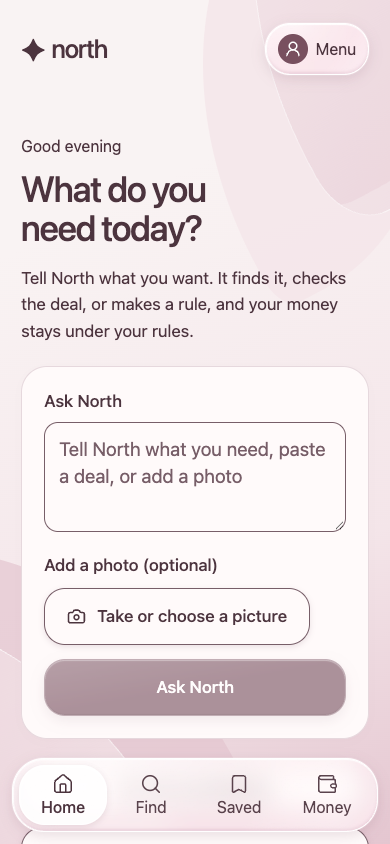
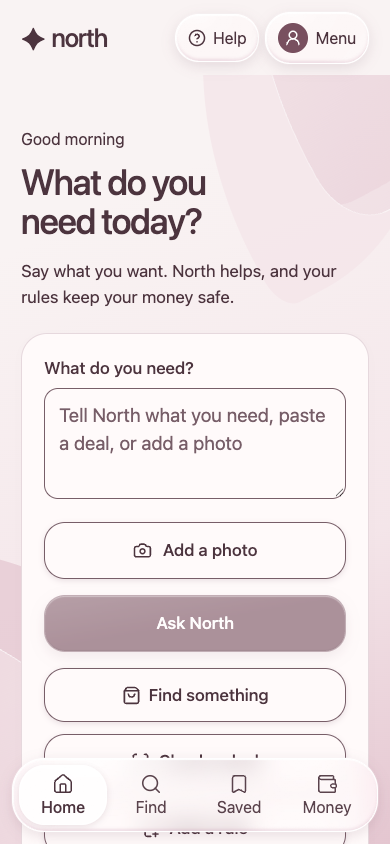
Dark mode for all five themes (Light / Dark / Match my device), contrast checks for dark, dark screenshots

diff --git a/src/app/north-theme.css b/src/app/north-theme.css
@@ -2,36 +2,40 @@
    and source/laptop.css), unchanged, with ONE addition: --n-success-bg, the fixed "good" background. Status colours
    (success, wait, stop) are the same in every theme: a theme never turns a stopped payment into a positive colour. */
 
-.north-app {
+/* The theme and the mode live on <html> (data-theme, data-mode), so a tiny script in <head> can set them before the first paint and
+   the page never flashes the wrong one. Everything below inherits the custom properties. */
+html {
   --n-success-bg: #e3efe6;
   --n-focus: #1f2a2e;
+  --n-halo: #ffffffd0;
+  background: var(--n-paper, #f9f3f3);
 }
 
-.north-app[data-theme="tide"] {
+html[data-theme="tide"] {
   --n-paper: #f0f7f8; --n-content: #fcfdfd; --n-ink: #244249; --n-muted: #536b71; --n-accent: #2b5c66; --n-action: #fff;
   --n-line: #d3e1e3; --n-haze: #b3d6de; --n-light: #e1f0f2; --n-deep: #7daebd; --n-milk: #ffffffe6; --n-glass: #ffffff59;
   --n-glass-light: #fffffffa; --n-glass-shade: #173b321f; --n-lens: #79ad9d40; --n-quiet: #e6efea; --n-success: #365c43;
   --n-edge: #8eaba2; --n-skin-shadow: #31483c1f; --n-state: #855114; --n-state-bg: #fff3dc; --n-stop: #8a403b; --n-stop-bg: #faeae6;
 }
-.north-app[data-theme="dune"] {
+html[data-theme="dune"] {
   --n-paper: #f7f2eb; --n-content: #fdfbf7; --n-ink: #48352d; --n-muted: #756054; --n-accent: #765145; --n-action: #fff;
   --n-line: #e3d7c9; --n-haze: #dfc1a6; --n-light: #f2e6d3; --n-deep: #c19372; --n-milk: #ffffffe6; --n-glass: #ffffff59;
   --n-glass-light: #fffffffa; --n-glass-shade: #6e443025; --n-lens: #b8825140; --n-quiet: #eee1d2; --n-success: #365c43;
   --n-edge: #c6ad95; --n-skin-shadow: #6d47301e; --n-state: #855114; --n-state-bg: #fff3dc; --n-stop: #8a403b; --n-stop-bg: #faeae6;
 }
-.north-app[data-theme="grove"] {
+html[data-theme="grove"] {
   --n-paper: #f3f5ed; --n-content: #fcfdf7; --n-ink: #35432e; --n-muted: #626e56; --n-accent: #4d6340; --n-action: #fff;
   --n-line: #dbe1cb; --n-haze: #c1ce9e; --n-light: #e8edda; --n-deep: #96ab75; --n-milk: #ffffffe6; --n-glass: #ffffff59;
   --n-glass-light: #fffffffa; --n-glass-shade: #3c4c2422; --n-lens: #9aaf6a40; --n-quiet: #e5ead8; --n-success: #365c43;
   --n-edge: #acbb91; --n-skin-shadow: #45552b1f; --n-state: #855114; --n-state-bg: #fff3dc; --n-stop: #8a403b; --n-stop-bg: #faeae6;
 }
-.north-app[data-theme="opal"] {
+html[data-theme="opal"] {
   --n-paper: #f5f5f2; --n-content: #fdfdfb; --n-ink: #292a2b; --n-muted: #626365; --n-accent: #303335; --n-action: #fff;
   --n-line: #ddded8; --n-haze: #d5dcd9; --n-light: #eef0eb; --n-deep: #a9b7b1; --n-milk: #ffffffe6; --n-glass: #ffffff59;
   --n-glass-light: #fffffffa; --n-glass-shade: #262d2c1c; --n-lens: #a4b2ac4a; --n-quiet: #e9ede8; --n-success: #365c43;
   --n-edge: #b5beb7; --n-skin-shadow: #373b351f; --n-state: #855114; --n-state-bg: #fff3dc; --n-stop: #8a403b; --n-stop-bg: #faeae6;
 }
-.north-app[data-theme="bloom"] {
+html[data-theme="bloom"] {
   --n-paper: #f9f3f3; --n-content: #fffafa; --n-ink: #4c343e; --n-muted: #775e68; --n-accent: #78505f; --n-action: #fff;
   --n-line: #e6d8dd; --n-haze: #e4c6d0; --n-light: #f4e5e9; --n-deep: #c29aa9; --n-milk: #ffffffe6; --n-glass: #ffffff59;
   --n-glass-light: #fffffffa; --n-glass-shade: #63364c22; --n-lens: #ba819c40; --n-quiet: #f0e2e7; --n-success: #365c43;
@@ -54,47 +58,97 @@
   border-radius: 50%; transform: rotate(-15deg); opacity: .62;
   box-shadow: 0 0 0 2px #ffffffb0, 0 0 0 26px var(--n-light), 0 0 0 28px #ffffffd0, 0 0 0 64px var(--n-haze);
 }
-.north-app[data-theme="dune"] .ng-landscape::before { border-radius: 75% 40% 30% 60%; transform: rotate(15deg); }
-.north-app[data-theme="grove"] .ng-landscape::after { border-radius: 60% 25% 65% 30%; transform: rotate(-35deg); }
+html[data-theme="dune"] .ng-landscape::before { border-radius: 75% 40% 30% 60%; transform: rotate(15deg); }
+html[data-theme="grove"] .ng-landscape::after { border-radius: 60% 25% 65% 30%; transform: rotate(-35deg); }
 
 /* Element-specific geometry: waves (Tide), petals (Bloom) and faceted planes (Opal). These come last on purpose: they replace the shapes above. */
-.north-app[data-theme="tide"] .ng-landscape::before {
+html[data-theme="tide"] .ng-landscape::before {
   width: 1150px; height: 390px; left: auto; right: -170px; top: -352px; bottom: auto; border: 0; border-bottom: 47px solid var(--n-haze);
   border-radius: 0 0 52% 48%; background: transparent; box-shadow: 0 20px 0 -8px var(--n-light), 0 22px 0 -8px #ffffffb0;
   transform: rotate(-10deg); opacity: .68;
 }
-.north-app[data-theme="tide"] .ng-landscape::after {
+html[data-theme="tide"] .ng-landscape::after {
   width: 1700px; height: 420px; left: -320px; right: auto; bottom: -273px; top: auto; border: 0; border-top: 2px solid #ffffffc0;
   border-radius: 48% 62% 0 0 / 75% 80% 0 0; background: linear-gradient(180deg, var(--n-haze), var(--n-light));
   box-shadow: 0 -21px 0 -5px var(--n-light), 0 -23px 0 -5px #ffffffa0, 0 -44px 0 -10px var(--n-deep); transform: rotate(-9deg); opacity: .72;
 }
-.north-app[data-theme="bloom"] .ng-landscape::before {
+html[data-theme="bloom"] .ng-landscape::before {
   width: 540px; height: 650px; left: auto; right: -65px; top: -420px; bottom: auto; border: 1px solid #ffffffa0; border-radius: 82% 12% 78% 14%;
   background: linear-gradient(145deg, var(--n-light), var(--n-haze)); box-shadow: -120px 65px 0 -26px var(--n-light), inset -24px -24px 0 #ffffff40;
   transform: rotate(-28deg); opacity: .76;
 }
-.north-app[data-theme="bloom"] .ng-landscape::after {
+html[data-theme="bloom"] .ng-landscape::after {
   width: 670px; height: 650px; left: -390px; right: auto; bottom: -290px; top: auto; border: 1px solid #ffffffb0; border-radius: 12% 85% 17% 82%;
   background: linear-gradient(120deg, var(--n-haze), var(--n-light)); box-shadow: 120px -48px 0 -37px var(--n-haze), inset 26px 23px 0 #ffffff35;
   transform: rotate(-22deg); opacity: .72;
 }
-.north-app[data-theme="opal"] .ng-landscape::before {
+html[data-theme="opal"] .ng-landscape::before {
   width: 650px; height: 610px; left: auto; right: -100px; top: -345px; bottom: auto; border: 0; border-radius: 0;
   clip-path: polygon(20% 0, 100% 0, 79% 100%, 0 79%);
   background: linear-gradient(118deg, var(--n-light) 0%, #ffffffd0 38%, var(--n-haze) 39%, var(--n-light) 67%, #ffffff90 68%);
   box-shadow: none; transform: rotate(17deg); opacity: .78;
 }
-.north-app[data-theme="opal"] .ng-landscape::after {
+html[data-theme="opal"] .ng-landscape::after {
   width: 750px; height: 620px; left: -220px; right: auto; bottom: -345px; top: auto; border: 0; border-radius: 0;
   clip-path: polygon(0 17%, 70% 0, 100% 80%, 20% 100%);
   background: linear-gradient(130deg, var(--n-haze) 0%, var(--n-light) 44%, #ffffffe0 45%, #ffffff80 47%, var(--n-deep) 48%, var(--n-light) 100%);
   box-shadow: none; transform: rotate(-17deg); opacity: .58;
 }
 @media (max-width: 650px) {
-  .north-app[data-theme="tide"] .ng-landscape::before { width: 700px; height: 240px; top: -200px; right: -250px; }
-  .north-app[data-theme="tide"] .ng-landscape::after { width: 950px; height: 340px; left: -290px; bottom: -190px; }
-  .north-app[data-theme="bloom"] .ng-landscape::before { width: 340px; height: 450px; right: -170px; top: -270px; }
-  .north-app[data-theme="bloom"] .ng-landscape::after { width: 400px; height: 500px; left: -250px; bottom: -210px; }
-  .north-app[data-theme="opal"] .ng-landscape::before { width: 430px; height: 530px; right: -210px; top: -320px; }
-  .north-app[data-theme="opal"] .ng-landscape::after { width: 490px; height: 490px; left: -210px; bottom: -250px; }
+  html[data-theme="tide"] .ng-landscape::before { width: 700px; height: 240px; top: -200px; right: -250px; }
+  html[data-theme="tide"] .ng-landscape::after { width: 950px; height: 340px; left: -290px; bottom: -190px; }
+  html[data-theme="bloom"] .ng-landscape::before { width: 340px; height: 450px; right: -170px; top: -270px; }
+  html[data-theme="bloom"] .ng-landscape::after { width: 400px; height: 500px; left: -250px; bottom: -210px; }
+  html[data-theme="opal"] .ng-landscape::before { width: 430px; height: 530px; right: -210px; top: -320px; }
+  html[data-theme="opal"] .ng-landscape::after { width: 490px; height: 490px; left: -210px; bottom: -250px; }
 }
+
+/* ---- Dark mode ---- */
+/* Each theme keeps its hue family and its background geometry (the shapes above are unchanged; they just sit on a dark canvas at lower
+   strength). In dark, --n-accent is a LIGHT tint and --n-action (the text on a button) is dark, so one accent works both as a button
+   fill and as link/border text. Status colours keep their meaning (green = fine, amber = wait, red = stopped) and are retuned for dark:
+   a refusal is always red with a hand icon and the word "Stopped", never green or calm. Every pair is checked by scripts/contrast-tokens.mjs. */
+html[data-mode="dark"] {
+  --n-success: #7ccd9c; --n-success-bg: #16301e;
+  --n-state: #efbf62; --n-state-bg: #3a3016;
+  --n-stop: #f59a92; --n-stop-bg: #45201f;
+  --n-focus: #e6f0f2; --n-halo: #000000b8;
+  --n-glass: #ffffff14; --n-glass-light: #ffffff30; --n-glass-shade: #00000066; --n-skin-shadow: #0000005c;
+  color-scheme: dark;
+}
+html[data-mode="dark"][data-theme="tide"] {
+  --n-paper: #0f1a1f; --n-content: #172730; --n-ink: #e2f1f4; --n-muted: #9bbcc5; --n-accent: #7fc3d1; --n-action: #0b1519;
+  --n-line: #2a434d; --n-haze: #1c3541; --n-light: #13262e; --n-deep: #2c5b6b; --n-milk: #172730e6; --n-lens: #7fc3d124;
+  --n-quiet: #1d323b; --n-edge: #4a6c78;
+}
+html[data-mode="dark"][data-theme="dune"] {
+  --n-paper: #17120d; --n-content: #221a13; --n-ink: #f3e8dc; --n-muted: #bba68f; --n-accent: #d9a07c; --n-action: #1c120b;
+  --n-line: #3b2d21; --n-haze: #2b2016; --n-light: #1d1610; --n-deep: #6a4a35; --n-milk: #221a13e6; --n-lens: #d9a07c24;
+  --n-quiet: #2a2018; --n-edge: #5a4533;
+}
+html[data-mode="dark"][data-theme="grove"] {
+  --n-paper: #10170e; --n-content: #182214; --n-ink: #e6eedd; --n-muted: #a2b591; --n-accent: #a5cf86; --n-action: #0f1a0b;
+  --n-line: #2b3b22; --n-haze: #1e2c18; --n-light: #152012; --n-deep: #476338; --n-milk: #182214e6; --n-lens: #a5cf8624;
+  --n-quiet: #1f2c1a; --n-edge: #4a6539;
+}
+html[data-mode="dark"][data-theme="opal"] {
+  --n-paper: #121314; --n-content: #1b1c1e; --n-ink: #e9ebea; --n-muted: #a3a7a9; --n-accent: #b9c7c2; --n-action: #121415;
+  --n-line: #2d3030; --n-haze: #232625; --n-light: #181a1a; --n-deep: #4c5755; --n-milk: #1b1c1ee6; --n-lens: #b9c7c224;
+  --n-quiet: #232526; --n-edge: #4a504f;
+}
+html[data-mode="dark"][data-theme="bloom"] {
+  --n-paper: #181114; --n-content: #221a1e; --n-ink: #f4e6ea; --n-muted: #b99aa6; --n-accent: #e0a3b6; --n-action: #1f1015;
+  --n-line: #3a2b33; --n-haze: #35242d; --n-light: #1d151a; --n-deep: #85586a; --n-milk: #221a1ee6; --n-lens: #e0a3b624;
+  --n-quiet: #2a1f25; --n-edge: #5a4350;
+}
+/* the background shapes stay (waves, petals, facets, contours), quieter on a dark page */
+html[data-mode="dark"] .ng-landscape { opacity: .64; }
+@media (max-width: 650px) { html[data-mode="dark"] .ng-landscape { opacity: .52; } }
+/* glass: a softer sheen, so it reads as dark smoked glass and not as a white patch */
+html[data-mode="dark"] .ng-glass::before { opacity: .22; }
+html[data-mode="dark"] .ng-glass::after { opacity: 0; }
+html[data-mode="dark"] .ng-nav-selector { background: #ffffff1f; border-color: #ffffff30; box-shadow: inset 0 1px 2px #ffffff12, 0 2px 7px var(--n-glass-shade); }
+html[data-mode="dark"] .ng-sheet-dimmer { background: #00000066; }
+html[data-mode="dark"] .n-btn-primary::before { background: linear-gradient(170deg, #ffffff18, transparent 50%); }
+html[data-mode="dark"] .n-btn-primary { border-color: #ffffff26; box-shadow: inset 0 1px 1px #ffffff40, inset 0 -1px 1px #00000040, 0 5px 13px var(--n-glass-shade); }
+html[data-mode="dark"] .north-app.ng-solid .ng-nav-selector { background: var(--n-quiet); border-color: var(--n-edge); box-shadow: none; }

diff --git a/src/components/shell/appearance.tsx b/src/components/shell/appearance.tsx
@@ -2,7 +2,7 @@
 // Appearance: the colour theme, reduced motion, solid surfaces and the "Behind the scenes" panel. These are display choices only:
 // they live in this browser's local storage, are independent of one another, and never touch a rule, a payment or a permission.
 // Nothing secret is ever stored here.
-import { createContext, useCallback, useContext, useMemo, useSyncExternalStore, type ReactNode } from "react";
+import { createContext, useCallback, useContext, useLayoutEffect, useMemo, useSyncExternalStore, type ReactNode } from "react";
 
 export const THEMES = [
   { id: "tide", name: "Tide", note: "Water · sea glass", disc: "linear-gradient(145deg,#f0f7f8 8%,#b3d6de 55%,#2b5c66)" },
@@ -14,8 +14,11 @@ export const THEMES = [
 export type ThemeId = (typeof THEMES)[number]["id"];
 export const DEFAULT_THEME: ThemeId = "bloom";
 
-type Prefs = { theme: ThemeId; reduce: boolean; solid: boolean | null; behind: boolean; videoSafe: boolean };
-const DEFAULTS: Prefs = { theme: DEFAULT_THEME, reduce: false, solid: null, behind: false, videoSafe: false };
+/** Light, Dark, or "auto" = match the device (the default). */
+export type Mode = "light" | "dark" | "auto";
+export const MODES: { id: Mode; label: string }[] = [{ id: "light", label: "Light" }, { id: "dark", label: "Dark" }, { id: "auto", label: "Match my device" }];
+type Prefs = { theme: ThemeId; mode: Mode; reduce: boolean; solid: boolean | null; behind: boolean; videoSafe: boolean };
+const DEFAULTS: Prefs = { theme: DEFAULT_THEME, mode: "auto", reduce: false, solid: null, behind: false, videoSafe: false };
 const KEY = "north-appearance";
 
 export function parsePrefs(raw: string | null): Prefs {
@@ -24,6 +27,7 @@ export function parsePrefs(raw: string | null): Prefs {
     const j = JSON.parse(raw) as Partial<Prefs>;
     return {
       theme: THEMES.some((t) => t.id === j.theme) ? (j.theme as ThemeId) : DEFAULT_THEME,
+      mode: j.mode === "light" || j.mode === "dark" ? j.mode : "auto",
       reduce: j.reduce === true,
       solid: typeof j.solid === "boolean" ? j.solid : null,
       behind: j.behind === true,
@@ -86,6 +90,10 @@ function useMedia(query: string): boolean {
 export type Appearance = {
   theme: ThemeId;
   setTheme(t: ThemeId): void;
+  /** What the person chose, and what is showing now (the device decides when it is "auto"). */
+  mode: Mode;
+  setMode(m: Mode): void;
+  dark: boolean;
   /** True when motion is off, from the Reduce motion choice or the device's own setting. */
   reduced: boolean;
   /** The device asks for less motion: the choice can't turn it back on. */
@@ -107,34 +115,42 @@ export function useAppearance(): Appearance {
   return v;
 }
 
-/** The root of every screen: carries the theme and the display choices as plain attributes and classes. */
 /** `forceVideoSafe`: the deployment switched video-safe mode on for a recording (VIDEO_SAFE=1). Read by the server layout, never exposed as a public variable. */
+/** The root of every screen: carries the display choices as classes (the theme and mode are on <html>). */
 export function AppearanceProvider({ children, forceVideoSafe = false }: { children: ReactNode; forceVideoSafe?: boolean }) {
   const prefs = useSyncExternalStore(subscribe, snapshot, () => DEFAULTS);
   const osReduced = useMedia("(prefers-reduced-motion: reduce)");
   const osSolid = useMedia("(prefers-reduced-transparency: reduce)");
+  const osDark = useMedia("(prefers-color-scheme: dark)");
+  const dark = prefs.mode === "dark" || (prefs.mode === "auto" && osDark);
   const reduced = prefs.reduce || osReduced;
   const solid = prefs.solid ?? osSolid;
 
   const setTheme = useCallback((theme: ThemeId) => write({ ...snapshot(), theme }), []);
+  const setMode = useCallback((mode: Mode) => write({ ...snapshot(), mode }), []);
   const setReduce = useCallback((reduce: boolean) => write({ ...snapshot(), reduce }), []);
   const setSolid = useCallback((s: boolean) => write({ ...snapshot(), solid: s }), []);
   const setBehind = useCallback((behind: boolean) => write({ ...snapshot(), behind }), []);
   const setVideoSafe = useCallback((videoSafe: boolean) => write({ ...snapshot(), videoSafe }), []);
   const videoSafe = prefs.videoSafe || forceVideoSafe;
 
+  // The theme and the mode sit on <html> (CSS reads them there). A script in <head> sets them before the first paint (see layout.tsx),
+  // so this only has to keep them in step when the person changes a choice.
+  useLayoutEffect(() => {
+    const root = document.documentElement;
+    root.dataset.theme = prefs.theme;
+    root.dataset.mode = dark ? "dark" : "light";
+  }, [prefs.theme, dark]);
+
   const value = useMemo<Appearance>(
-    () => ({ theme: prefs.theme, setTheme, reduced, osReduced, setReduce, solid, setSolid, behind: prefs.behind, setBehind, videoSafe, setVideoSafe }),
-    [prefs.theme, prefs.behind, reduced, osReduced, solid, videoSafe, setTheme, setReduce, setSolid, setBehind, setVideoSafe],
+    () => ({ theme: prefs.theme, setTheme, mode: prefs.mode, setMode, dark, reduced, osReduced, setReduce, solid, setSolid, behind: prefs.behind, setBehind, videoSafe, setVideoSafe }),
+    [prefs.theme, prefs.mode, dark, prefs.behind, reduced, osReduced, solid, videoSafe, setTheme, setMode, setReduce, setSolid, setBehind, setVideoSafe],
   );
 
-  const themeName = THEMES.find((t) => t.id === prefs.theme)?.name ?? "Bloom";
   return (
     <Ctx.Provider value={value}>
       <div
         className={`north-app${solid ? " ng-solid" : ""}${reduced ? " ng-reduced" : ""}${prefs.behind ? " ng-has-bts" : ""}${videoSafe ? " ng-videosafe" : ""}`}
-        data-theme={prefs.theme}
-        data-theme-name={themeName}
       >
         <div className="ng-landscape" aria-hidden="true" />
         {children}

diff --git a/src/app/north-shell.css b/src/app/north-shell.css
@@ -18,7 +18,7 @@ body { margin: 0; background: #f9f3f3; }
 .ng-vh { position: absolute; width: 1px; height: 1px; overflow: hidden; clip: rect(0, 0, 0, 0); white-space: nowrap; }
 
 /* Focus: a dark ring with a light halo, visible on glass, on content and on the dark action buttons. */
-.north-app :focus-visible { outline: 3px solid var(--n-focus); outline-offset: 3px; border-radius: 10px; box-shadow: 0 0 0 6px #ffffffd0; }
+.north-app :focus-visible { outline: 3px solid var(--n-focus); outline-offset: 3px; border-radius: 10px; box-shadow: 0 0 0 6px var(--n-halo); }
 .north-app .ng-nav button:focus-visible { outline-offset: -3px; box-shadow: none; }
 
 /* ---- glass: fill, backdrop, bright edge, pointer highlight and one brief sweep. These rules belong together. ---- */
@@ -333,7 +333,7 @@ textarea.n-field { min-height: 90px; line-height: 1.45; }
 .n-pic { display: flex; flex-wrap: wrap; gap: 14px; align-items: center; position: relative; }
 .n-pic-input { position: absolute; width: 1px; height: 1px; opacity: 0; overflow: hidden; }
 .n-pic-btn { width: auto; flex: 0 1 auto; }
-.n-pic-input:focus-visible + .n-pic-btn { outline: 3px solid var(--n-focus); outline-offset: 3px; box-shadow: 0 0 0 6px #ffffffd0; }
+.n-pic-input:focus-visible + .n-pic-btn { outline: 3px solid var(--n-focus); outline-offset: 3px; box-shadow: 0 0 0 6px var(--n-halo); }
 .n-pic-preview { position: relative; width: 96px; height: 96px; border-radius: 16px; border: 1px solid var(--n-line); background: #fff; overflow: visible; }
 .n-pic-preview img { width: 100%; height: 100%; object-fit: cover; border-radius: 15px; }
 .n-pic-remove { position: absolute; top: -12px; right: -12px; width: 48px; height: 48px; border-radius: 50%; display: grid; place-items: center; background: var(--n-content); color: var(--n-ink); border: 1px solid var(--n-muted); cursor: pointer; }
@@ -457,3 +457,11 @@ html { scroll-padding-top: 96px; }
   .n-btn, .n-btn-auto, .ng-quick .n-btn { width: 100%; }
   .ng-sheet { gap: 22px; }
 }
+
+/* Light / Dark / Match my device */
+.ng-mode { border: 0; padding: 0; margin: 0; display: grid; gap: 4px; }
+.ng-mode legend { font-size: 17px; font-weight: 500; padding: 0 0 6px; }
+.ng-mode-opt { display: flex; align-items: center; gap: 12px; min-height: 48px; padding: 0 12px; border: 1px solid var(--n-line); border-radius: 14px; background: var(--n-paper); cursor: pointer; font-size: 16px; }
+.ng-mode-opt:has(input:checked) { border-color: var(--n-accent); box-shadow: inset 0 0 0 1px var(--n-accent); font-weight: 500; }
+.ng-mode-opt input { width: 22px; height: 22px; accent-color: var(--n-accent); flex-shrink: 0; }
+.ng-mode-opt:has(input:focus-visible) { outline: 3px solid var(--n-focus); outline-offset: 2px; }

diff --git a/src/components/shell/appearance.test.ts b/src/components/shell/appearance.test.ts
@@ -5,14 +5,23 @@ describe("appearance choices", () => {
   it("defaults to Bloom, and all five themes exist", () => {
     expect(DEFAULT_THEME).toBe("bloom");
     expect(THEMES.map((t) => t.id)).toEqual(["tide", "dune", "grove", "opal", "bloom"]);
-    expect(parsePrefs(null)).toEqual({ theme: "bloom", reduce: false, solid: null, behind: false, videoSafe: false });
+    expect(parsePrefs(null)).toEqual({ theme: "bloom", mode: "auto", reduce: false, solid: null, behind: false, videoSafe: false });
   });
   it("reads saved choices and ignores anything odd", () => {
-    expect(parsePrefs(JSON.stringify({ theme: "opal", reduce: true, solid: true, behind: true, videoSafe: false }))).toEqual({ theme: "opal", reduce: true, solid: true, behind: true, videoSafe: false });
-    expect(parsePrefs(JSON.stringify({ theme: "<script>", reduce: "yes", solid: 3 }))).toEqual({ theme: "bloom", reduce: false, solid: null, behind: false, videoSafe: false });
-    expect(parsePrefs("{not json")).toEqual({ theme: "bloom", reduce: false, solid: null, behind: false, videoSafe: false });
+    expect(parsePrefs(JSON.stringify({ theme: "opal", mode: "dark", reduce: true, solid: true, behind: true, videoSafe: false }))).toEqual({ theme: "opal", mode: "dark", reduce: true, solid: true, behind: true, videoSafe: false });
+    expect(parsePrefs(JSON.stringify({ theme: "<script>", reduce: "yes", solid: 3 }))).toEqual({ theme: "bloom", mode: "auto", reduce: false, solid: null, behind: false, videoSafe: false });
+    expect(parsePrefs("{not json")).toEqual({ theme: "bloom", mode: "auto", reduce: false, solid: null, behind: false, videoSafe: false });
   });
   it("holds only display choices: no money, rule or permission field", () => {
-    expect(Object.keys(parsePrefs(JSON.stringify({ theme: "tide", canBuy: true, token: "secret" }))).sort()).toEqual(["behind", "reduce", "solid", "theme", "videoSafe"]);
+    expect(Object.keys(parsePrefs(JSON.stringify({ theme: "tide", canBuy: true, token: "secret" }))).sort()).toEqual(["behind", "mode", "reduce", "solid", "theme", "videoSafe"]);
+  });
+});
+
+describe("light, dark or match my device", () => {
+  it("defaults to matching the device and ignores odd values", () => {
+    expect(parsePrefs(null).mode).toBe("auto");
+    expect(parsePrefs(JSON.stringify({ mode: "dark" })).mode).toBe("dark");
+    expect(parsePrefs(JSON.stringify({ mode: "light" })).mode).toBe("light");
+    expect(parsePrefs(JSON.stringify({ mode: "neon" })).mode).toBe("auto");
   });
 });

diff --git a/src/components/shell/app-shell.tsx b/src/components/shell/app-shell.tsx
@@ -7,7 +7,7 @@ import { usePathname } from "next/navigation";
 import { useCallback, useEffect, useLayoutEffect, useRef, useState, type ReactNode } from "react";
 import { AskNorth } from "@/app/ask-north";
 import { navFrames, MOTION, springSamples } from "@/lib/ui/springs";
-import { THEMES, useAppearance } from "./appearance";
+import { MODES, THEMES, useAppearance } from "./appearance";
 import { BehindTheScenes } from "./behind-the-scenes";
 import { Dialog } from "./dialog";
 import { MotionLayer, shine } from "./motion-layer";
@@ -100,6 +100,19 @@ function AppearancePanel({ open, onClose, triggerRef }: { open: boolean; onClose
           </button>
         ))}
       </div>
+      <hr className="ng-controls-divider" />
+      <fieldset className="ng-mode">
+        <legend>Light or dark</legend>
+        {MODES.map((m) => (
+          <label key={m.id} className="ng-mode-opt">
+            <input
+              type="radio" name="ng-mode" checked={a.mode === m.id}
+              onChange={() => { a.setMode(m.id); setSaid(`${m.label} selected. Your menu and your spending rules are unchanged.`); }}
+            />
+            <span>{m.label}</span>
+          </label>
+        ))}
+      </fieldset>
       <hr className="ng-controls-divider" />
       <label className="ng-check">
         <input type="checkbox" checked={a.reduced} disabled={a.osReduced} onChange={(e) => a.setReduce(e.target.checked)} />

diff --git a/src/app/layout.tsx b/src/app/layout.tsx
@@ -1,4 +1,5 @@
 import type { Metadata } from "next";
+import Script from "next/script";
 import { Suspense } from "react";
 import { CsrfFetch } from "@/components/csrf-fetch";
 import { AppearanceProvider } from "@/components/shell/appearance";
@@ -13,8 +14,13 @@ export const metadata: Metadata = {
 
 export default function RootLayout({ children }: LayoutProps<"/">) {
   return (
-    <html lang="en">
+    <html lang="en" data-theme="bloom" data-mode="light" suppressHydrationWarning>
       <body>
+        {/* Runs before the first paint: puts the saved theme and the light/dark choice on <html>, so the page never flashes the wrong look.
+            It only reads the display choices saved by Appearance. */}
+        <Script id="north-appearance-init" strategy="beforeInteractive">
+          {`(function(){try{var p=JSON.parse(localStorage.getItem("north-appearance")||"{}");var t=["tide","dune","grove","opal","bloom"].indexOf(p.theme)>-1?p.theme:"bloom";var d=p.mode==="dark"||(p.mode!=="light"&&window.matchMedia("(prefers-color-scheme: dark)").matches);var r=document.documentElement;r.dataset.theme=t;r.dataset.mode=d?"dark":"light";}catch(e){}})();`}
+        </Script>
         <CsrfFetch />
         <AppearanceProvider forceVideoSafe={process.env.VIDEO_SAFE === "1"}>
           <TraceProvider>

diff --git a/CLAUDE.md b/CLAUDE.md
@@ -112,6 +112,8 @@ The whole frontend is restyled in the handoff's system. Tokens and background ge
 
 - Rules screens: `app/rules/strength-choice.tsx` + `strength-copy.ts` give Gentle/Firm/Locked one plain line and one example each; a change that takes a day is worded "starts tomorrow" (`whenPlain`). Decision dialogs pin the answer at the top (`.gd-pin`).
 
+- Dark mode (Nov 10): each theme has a dark palette in `north-theme.css` (`html[data-mode="dark"][data-theme=...]`), same shapes at lower strength, retuned status colours (stopped stays red). Appearance has Light / Dark / Match my device (default). The theme and mode sit on `<html>`; a `beforeInteractive` script in `layout.tsx` sets them before first paint (no flash). `scripts/contrast-tokens.mjs` checks all 10 palettes; `scripts/a11y.mjs` runs light and dark. Raw Tailwind utilities were moved onto `n-*` classes (`north-pages.css`).
+
 ## Stack
 Next.js (whatever `create-next-app@latest` installs) + TypeScript (App Router, `src/`), Supabase Postgres (users, rules, budgets, receipts, audit log), and Claude through the Anthropic API with tool use for the agents (key: `ANTHROPIC_API_KEY`). PayPal Agent Toolkit (`@paypal/agent-toolkit`) lets the Concierge agent create orders and check order status. Check its current docs before using it, and if it can't use a saved-account token, keep the saved-account charge in our own checkout code. Unit tests for the Guardian; an eval script for scam/injection detection; GitHub Actions; MIT license.
 
